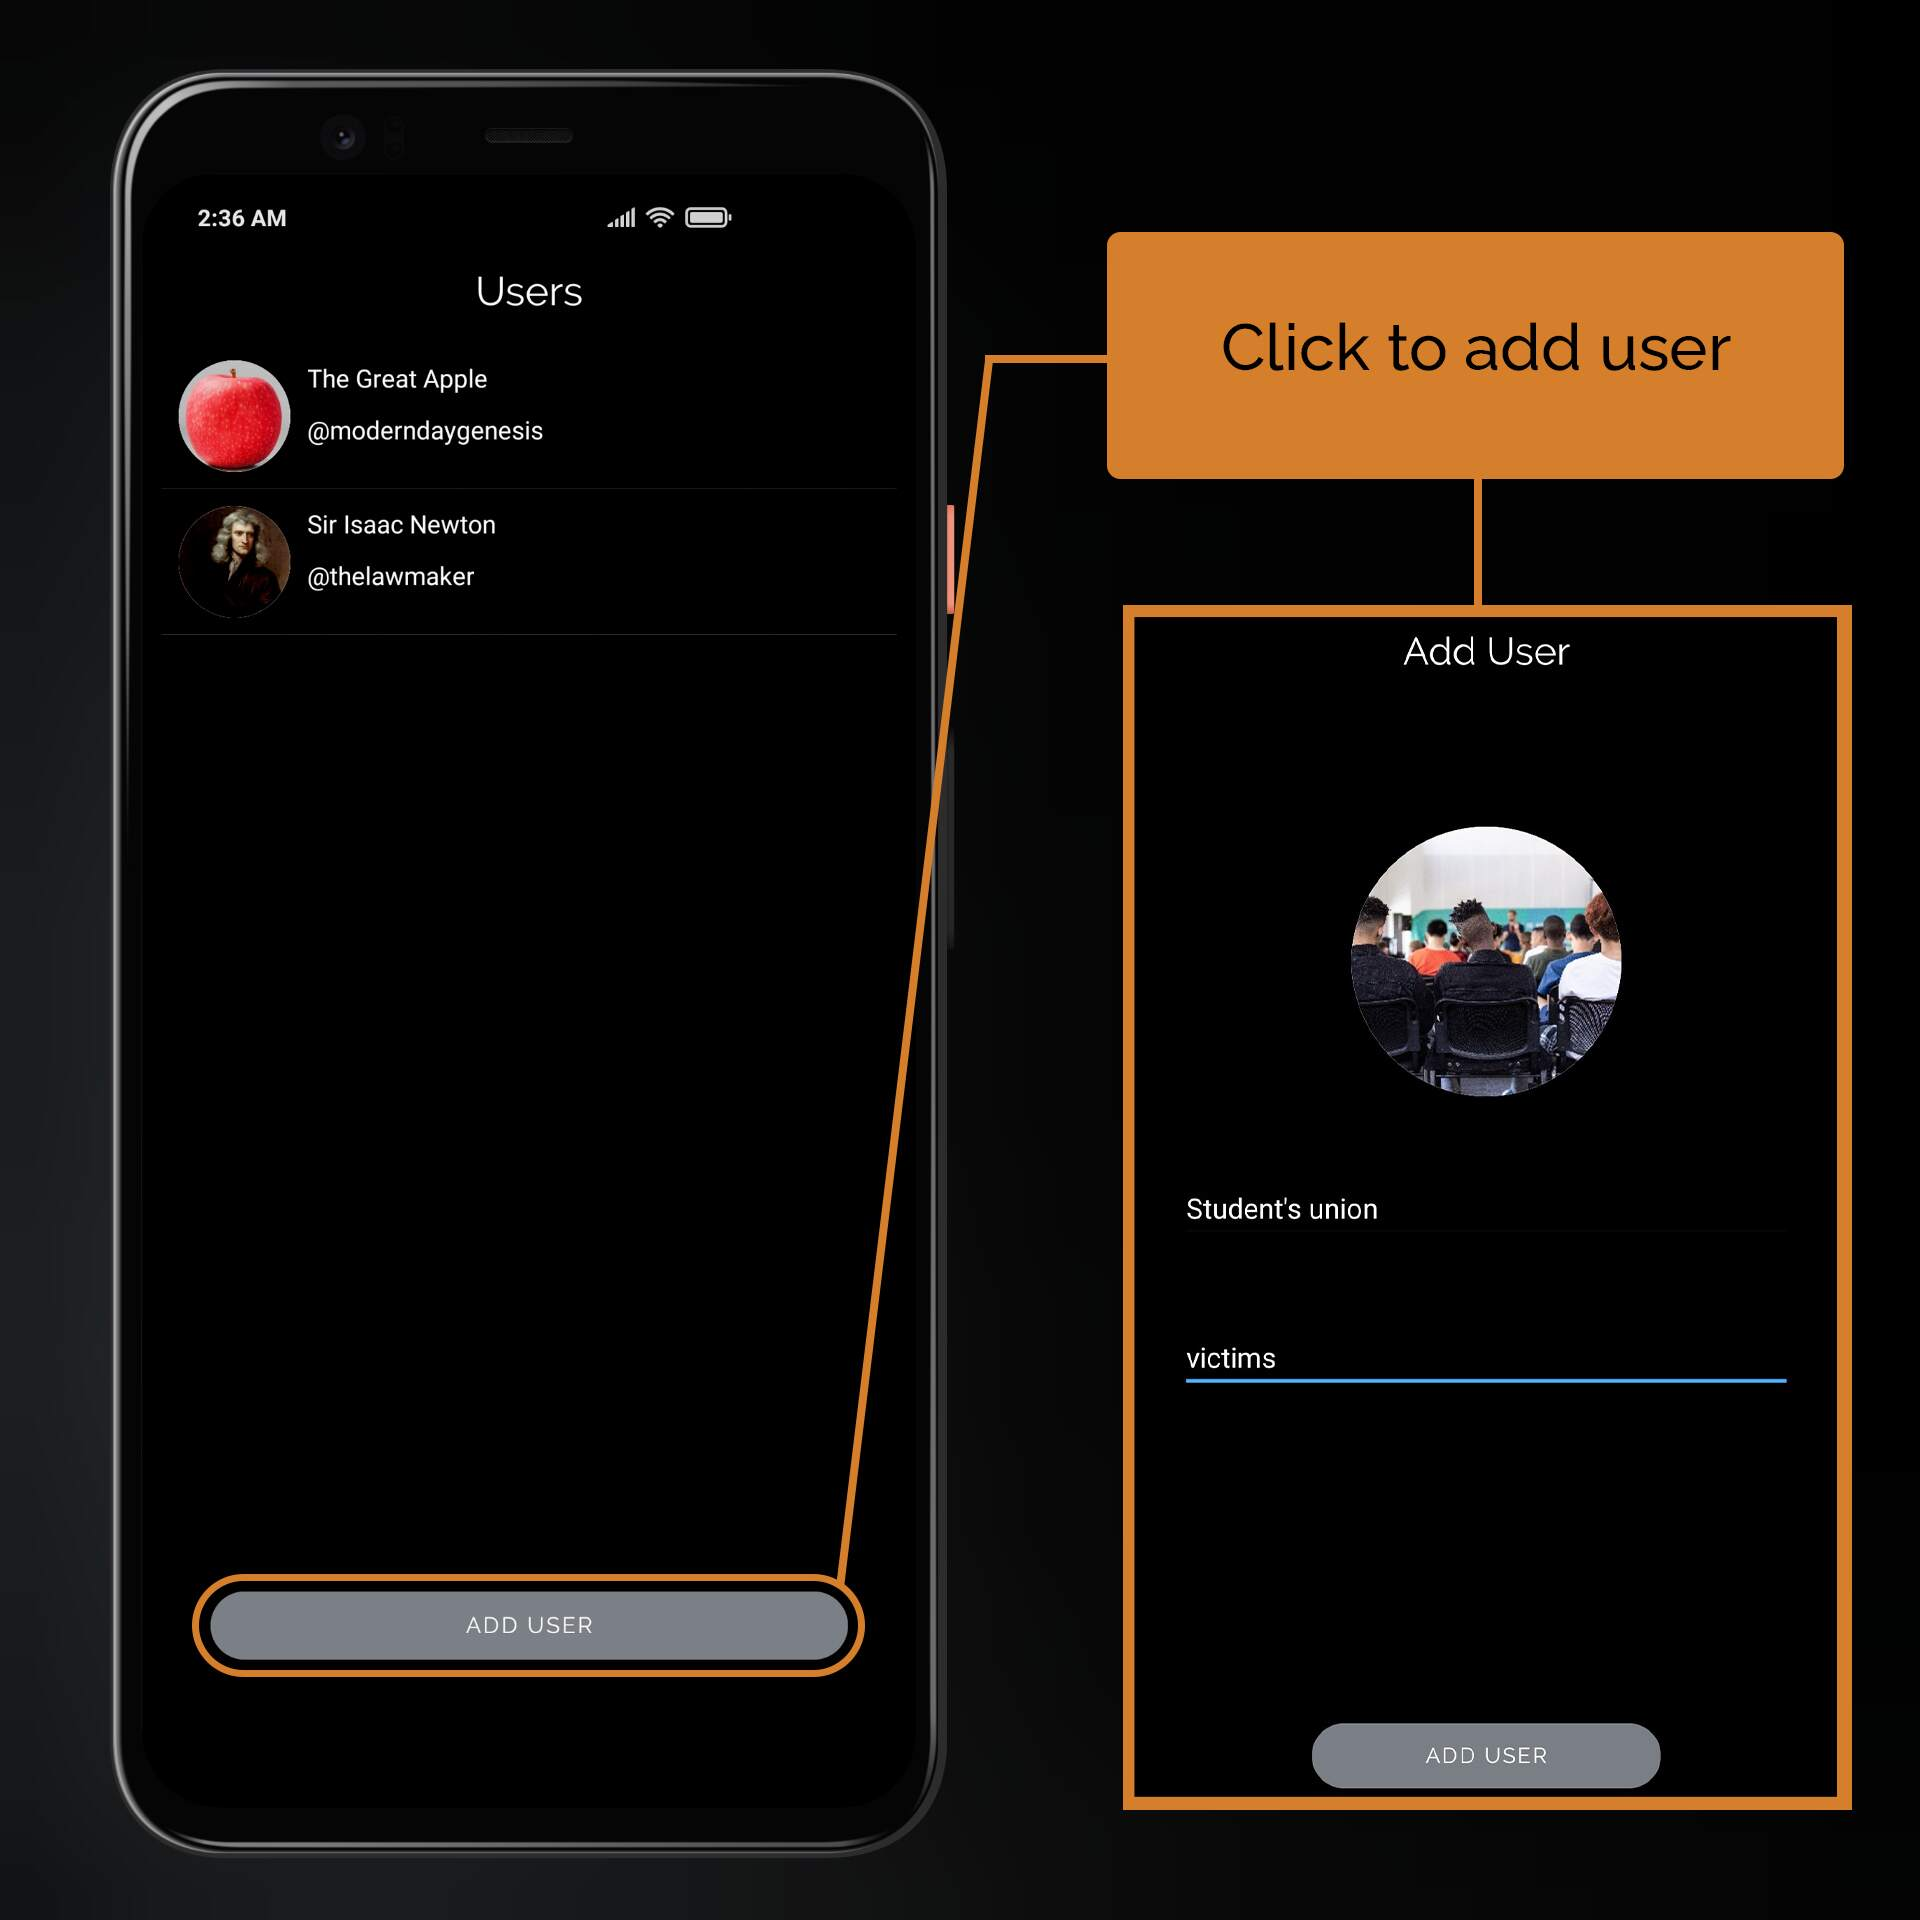
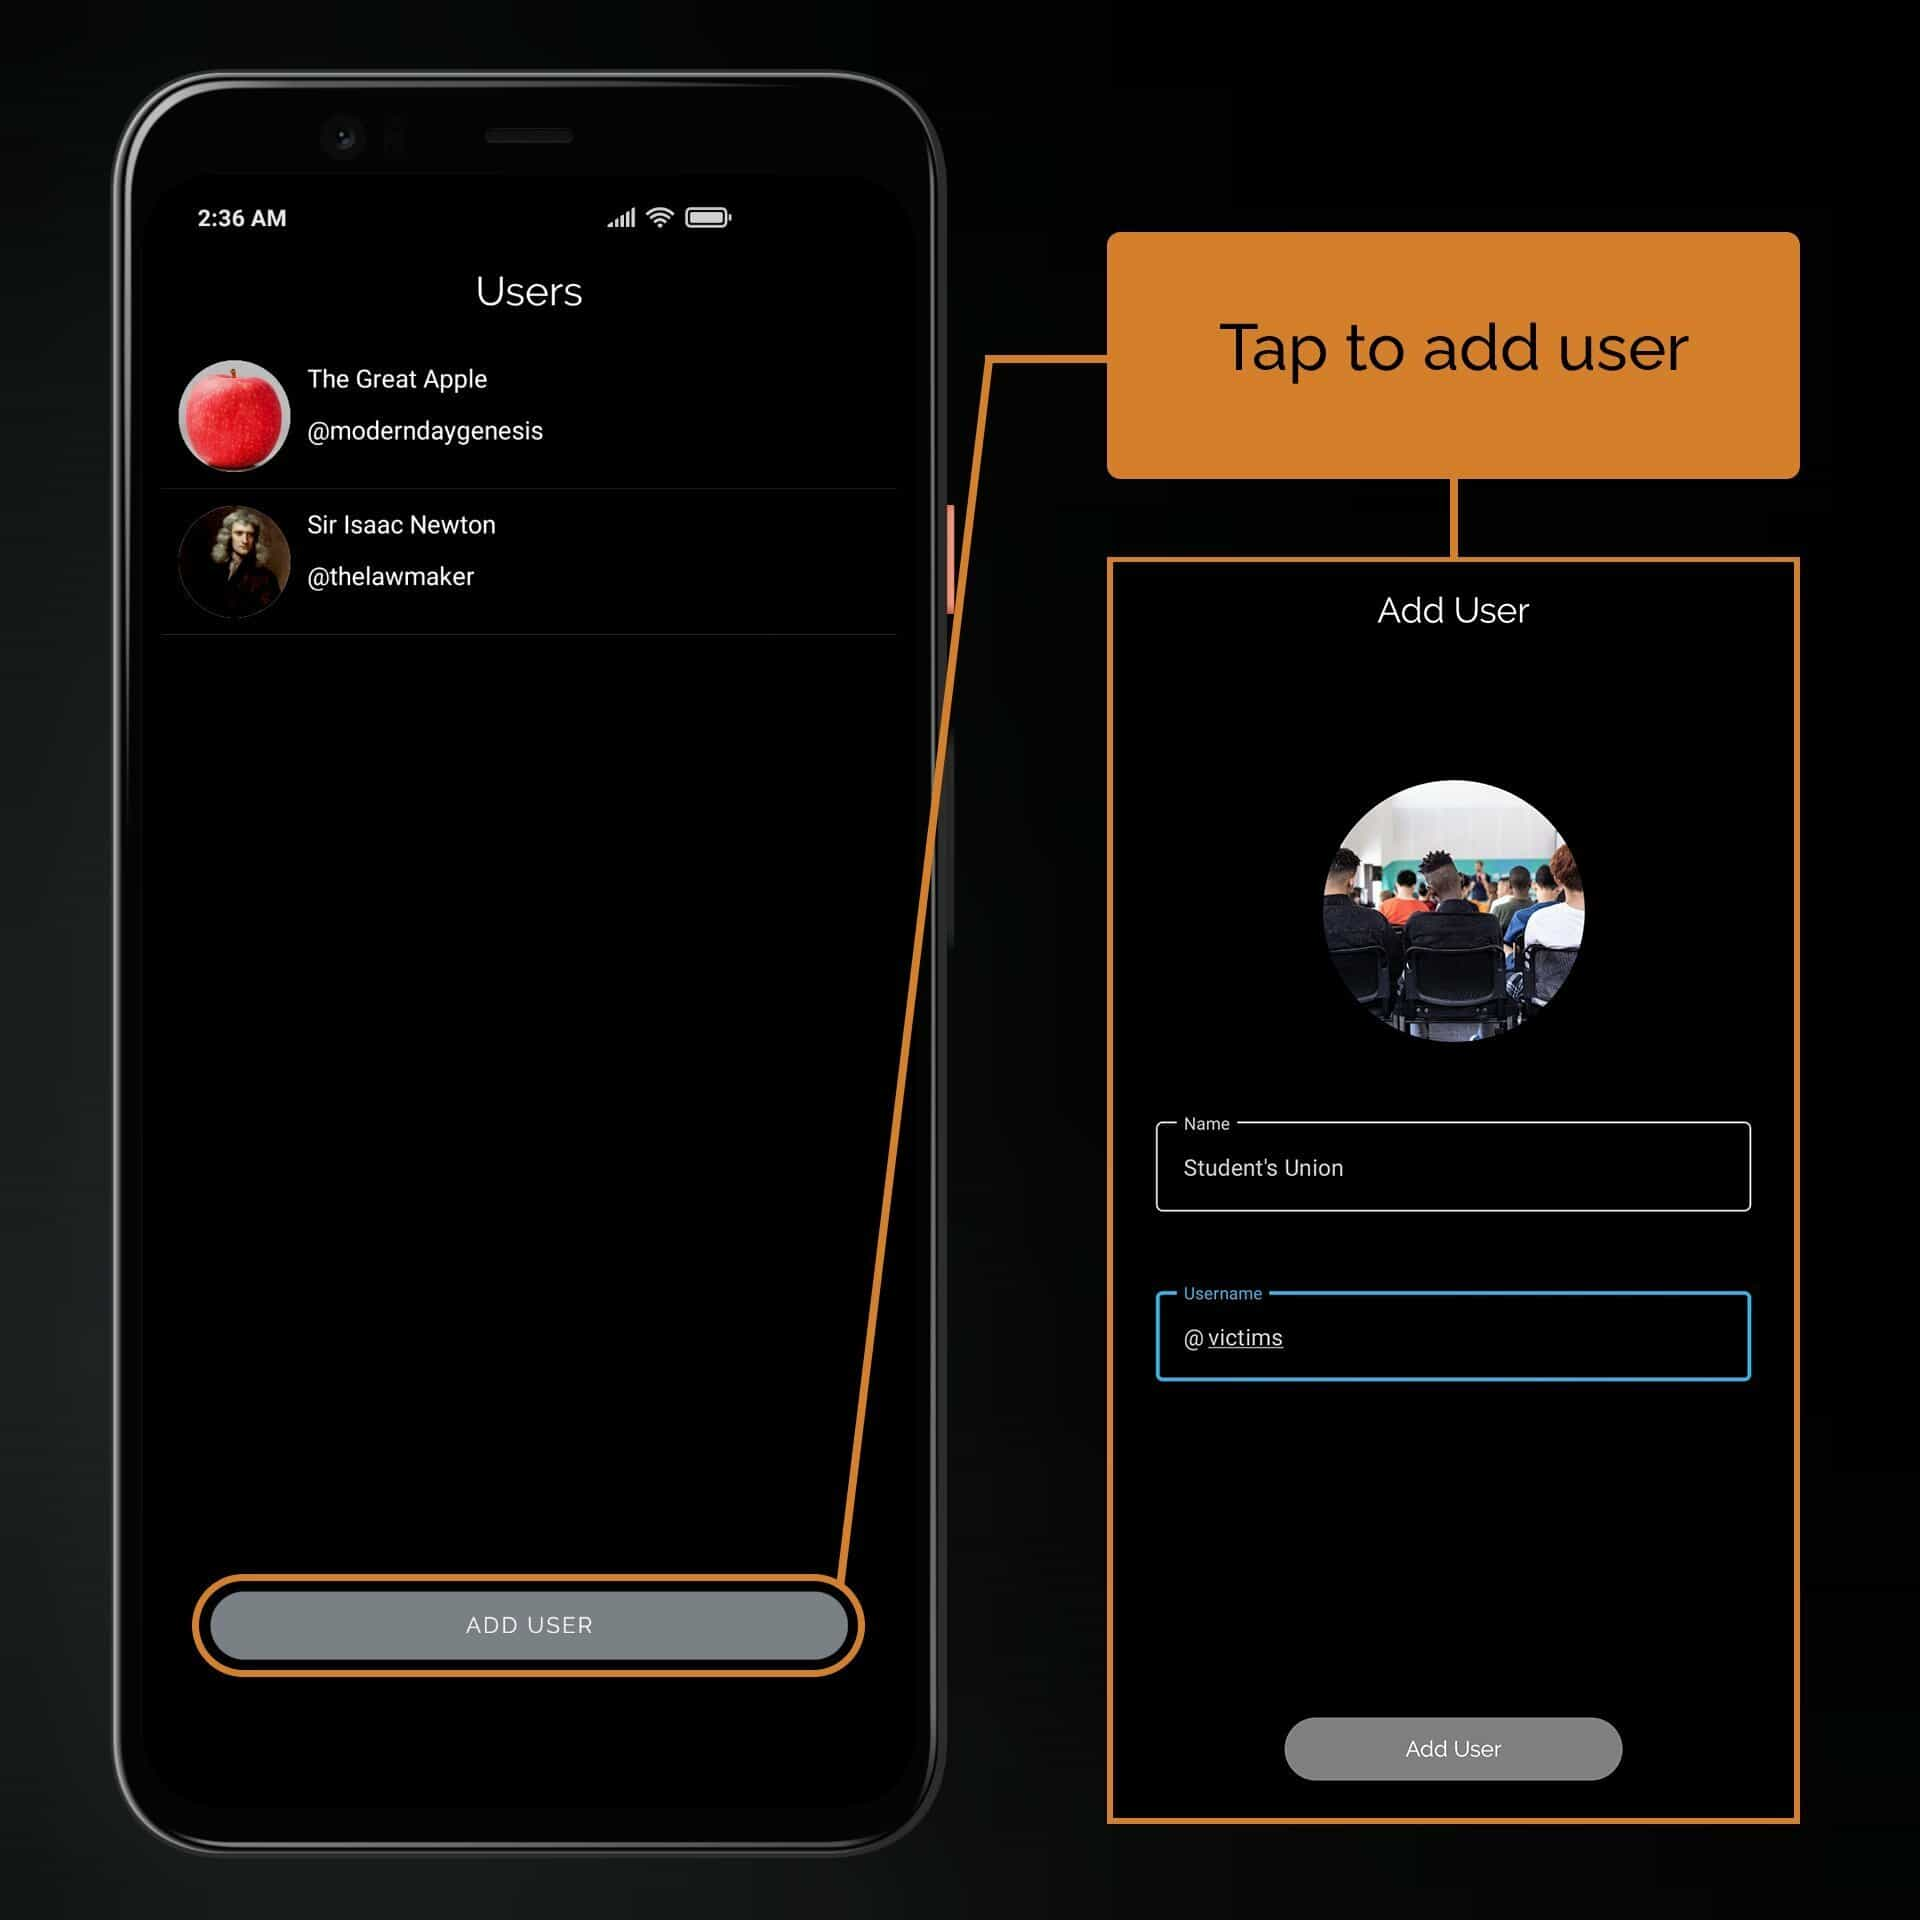
Updated TweetCreator faq v2.2.5

diff --git a/help/tweetcreator/faq.md b/help/tweetcreator/faq.md
@@ -14,53 +14,55 @@ For switching between dim, dark and light mode of app, touch the **Sun** or **Mo
 
 
 <!-- 2 -->
-## How to toggle tweet features ?
-> Touch the **More Option** button
+## How to toggle tweet options ?
+> Toggling tweet options
 
-![moreOption](../../assets/images/help-section/moreoption.jpg
+Tap 3 dots on the **top right** of the tweet.
+
+![Tweet options](../../assets/images/help-section/tweetOptions.jpg
 )
 
 <!-- 3 -->
 ## How to set default user for future tweets?
 > Setting default user for main tweet
 
-1. Touch the **person icon** on the **toolbar**.
-2. On the next **User list** screen, either select existing users or add one.
-3. Touch any user profile in the list, for setting it a default user.
+1. Open **more options menu** by clicking on 3 dots. 
+2. Tap **Select user** in the menu.
+3. Choose any user from the list by tapping on the user profile.
 4. Enjoy, now you don't have to enter same user details again 🙂.
 
 ![Default User](../../assets/images/help-section/defaultUser.jpg
 )
 <!-- 4 -->
-## How to add user to the user list ?
+## How to add users to the user list?
 > Adding user to the user list
 
-1. On the **home screen** of the app, Touch the **person icon**.
+1. On the **home screen**, Touch the **human icon 🤵**.
 1. At bottom of the screen, Touch the **ADD USER** button.
 1. Enter all the asked details, on the next screen
     * Name
     * Username
     * Select image
-1. After entering all details, Touch the **ADD USER** button.
+1. After entering all details, Tap the **Add User** button.
 
 ![Adding User](../../assets/images/help-section/addUserinList.jpg
 )
 <!-- 5 -->
-## How to edit users in user list ?
+## How to edit users in the user list?
 > Editing user in the user list
 
-1. On the **home screen** of the app, Touch the **person icon**.
-1. Long press on any user in the user list.
-1. Edit any detail of the user and touch **EDIT USER**
+1. On the **home screen**, Touch the **human icon 🤵**.
+1. Tap on any user in the user list. 
+1. Edit any detail of the user and tap **Edit User**
 
 ![Editing User](../../assets/images/help-section/editUserSelect.jpg
 )
 <!-- 6 -->
-## How to delete user from the user list ?
+## How to delete users from the user list?
 > Deleting user from the user list
 
-1. On the **home screen** of the app, Touch the **person icon**.
-1. **Left swipe** any user to delete it.
+1. On the **home screen**, Tap the **human icon 🤵**.
+1. **Left swipe** any user to delete it from user list.
 
 ![Deleting User](../../assets/images/help-section/deleteUserSelect.jpg
 )
@@ -68,49 +70,42 @@ For switching between dim, dark and light mode of app, touch the **Sun** or **Mo
 ## How to retweet ?
 > Retweeting 
 
-1. Touch, down arrow on the right of the tweet.
-1. Tap **You Retweeted** for changing retweet username.
+1. Open **more options menu** by tapping on 3 dots.
+2. Turn on **Retweeted text**.
+3. Tap on **You retweted** for changing user.
 
-![Retweeted tweet](../../assets/images/help-section/youRetweeted.jpg)
+![Retweeted tweet](../../assets/images/help-section/retweetedText.jpg)
 
-<!-- 8 -->
+## How to change retweet count?
+> Changing retweet count
 
-## How to add replies ?
-> Adding replies
+1. Open **more options menu** by tapping on 3 dots.
+2. Turn on **Retweet count**.
+3. Tap on retweet count.
+4. Enter any desired count and save.
 
-Touch the **comment icon** for adding reply to the tweet.
-
-![Adding Reply](../../assets/images/help-section/replyTweetOriginal.jpg
-)
-
-<!-- 9 -->
-## How to change number of likes and retweets in replies?
-> Highlighting likes/retweet.
-
-Tap on **like/retweet icons** for highlighting them.
+![Retweet Count](../../assets/images/help-section/retweetCount.jpg)
 
 
+## How to change like count?
+> Changing like count
 
-![Adding reply like/retweet count](../../assets/images/help-section/replyLike&TweetCounter.jpg
-)
-<!-- 10 -->
-## How to change reply options?
-> Changing various reply options like verified badge, private account and counts
+1. Open **more options menu** by tapping on 3 dots.
+2. Turn on **Like count**.
+3. Tap on like count.
+4. Enter any desired count and save.
 
-Touch the 3 dots on the right of the reply, for accessing reply options menu.
+![Like Count](../../assets/images/help-section/likeCount.jpg)
 
-![Reply options menu](../../assets/images/help-section/tweetReplyOption.jpg
-)
-<!-- 11 -->
-## How to create a reply thread ?
-> Creating reply thread.
 
-Touch **reply icon** of the reply for creating a **reply thread**.
+## How to reset tweet?
+> Resetting tweet
 
-![replyToReply](../../assets/images/help-section/replyToReply.jpg
-)
+1. Open **more options menu** by tapping on 3 dots.
+2. Tap on **Reset Tweet**.
 
-<!-- 12 -->
+![Reset tweet](../../assets/images/help-section/reset.jpg)
+
 ## How to add quote tweet?
 
 > Adding Quote tweet.
@@ -120,15 +115,149 @@ Tap share icon of the main tweet for accessing **quote tweet menu** and Enable Q
 ![Quote Tweet](../../assets/images/help-section/quoteTweet.jpg
 )
 
-<!-- 13 -->
-## How to add image to quote tweet?
+## How to select saved user for quote tweet?
+
+> Selecting saved user for quote tweet
+
+1. Tap the share icon of the main tweet for accessing **quote tweet menu**.
+2. Enable Quote Photo.
+3. Tap **Select User**.
+4. Choose any user from the list.
+
+![Select user for Quote Tweet](../../assets/images/help-section/quoteSelectUser.jpg
+)
+
+## How to add image in quote tweet?
 
 > Adding images to Quote tweet.
 
-1. Tap share icon of the main tweet for accessing **quote tweet menu** and Enable Quote tweet.
+1. Tap the share icon of the main tweet for accessing **quote tweet menu**.
 2. Enable Quote Photo.
 3. Choose any image from your device.
 
-![Quote Tweet](../../assets/images/help-section/quotetweetimage.jpg
+![Quote Tweet images](../../assets/images/help-section/quoteTweetPhoto.jpg
 )
 
+
+## How to reset quote tweet?
+
+> Resetting quote tweet.
+
+1. Tap the share icon of the main tweet for accessing **quote tweet menu**.
+2. Tap on **Reset Quote Tweet**.
+
+![Reset quote Tweet](../../assets/images/help-section/quoteReset.jpg
+)
+
+## How to add replies ?
+> Adding replies
+
+Touch the **comment icon** for adding reply to the tweet.
+
+![Adding Reply](../../assets/images/help-section/reply.jpg
+)
+
+<!-- 9 -->
+## How to highlight likes and retweets icons in replies?
+> Highlighting likes/retweet icons.
+
+Tap on **like/retweet icons** for highlighting them.
+
+
+![Adding reply like/retweet count](../../assets/images/help-section/replyLikeAndRetweet.jpg
+)
+
+## How to toggle reply options?
+> Toggling reply options
+
+Tap 3 dots on the right of the reply, for accessing the reply options menu.
+
+![Reply options menu](../../assets/images/help-section/replyOptions.jpg
+)
+
+
+## How to select user for reply?
+> Selecting user for reply
+
+1. Open **reply options menu** by tapping on **3 dots** of the reply.
+2. Tap on **Select User**.
+3. Select any user from the list by tapping on it.
+
+![Select user for reply](../../assets/images/help-section/replyUser.jpg
+)
+
+## How to change comment count of reply?
+> Changing reply comment count
+
+1. Open **reply options menu** by tapping on **3 dots** of the reply.
+2. Tap on **Comment count**.
+3. Enter any desired comment count and save.
+
+> Tip: You can enter **0** or **leave count blank** for **disabling comment count**.
+
+![Changing reply comment count](../../assets/images/help-section/replyCommentCount.jpg
+)
+
+## How to change retweet count of reply?
+> Changing reply retweet count
+
+1. Open **reply options menu** by tapping on **3 dots** of the reply.
+2. Tap on **Retweet count**.
+3. Enter any desired retweet count and save.
+
+> Tip: You can enter **0** or **leave count blank** for **disabling retweet count**.
+
+![Changing reply retweet count](../../assets/images/help-section/replyRetweetCount.jpg
+)
+
+## How to change like count of reply?
+> Changing reply like count
+
+1. Open **reply options menu** by tapping on **3 dots** of the reply.
+2. Tap on **Like count**.
+3. Enter any desired like count and save.
+
+> Tip: You can enter **0** or **leave count blank** for **disabling like count**.
+
+![Changing reply like count](../../assets/images/help-section/replyLikeCount.jpg
+)
+
+## How to delete a reply?
+> Deleting a reply
+
+1. Open **reply options menu** by tapping on **3 dots** of the reply.
+2. Tap on **Delete** for deleting a reply
+
+
+![Deleting a reply](../../assets/images/help-section/replyDelete.jpg
+)
+
+## How to create a reply thread?
+> Creating reply thread.
+
+Touch **reply icon** of the reply for creating a **reply thread**.
+
+![Reply Thread](../../assets/images/help-section/replyThread.jpg
+)
+
+
+
+## How to toggle options for replies in reply thread?
+> Toggling reply options in reply thread
+
+Tap 3 dots on the right of the reply, for accessing the menu for replies in reply thread.
+
+![Reply options menu](../../assets/images/help-section/replyThreadOptions.jpg
+)
+
+
+
+## How to delete a reply in reply thread?
+> Deleting a reply in reply thread
+
+1. Open **reply options menu** by tapping on **3 dots** of the reply.
+2. Tap on **Delete** for deleting a reply in reply thread
+
+
+![Deleting a reply](../../assets/images/help-section/replyDelete.jpg
+)
